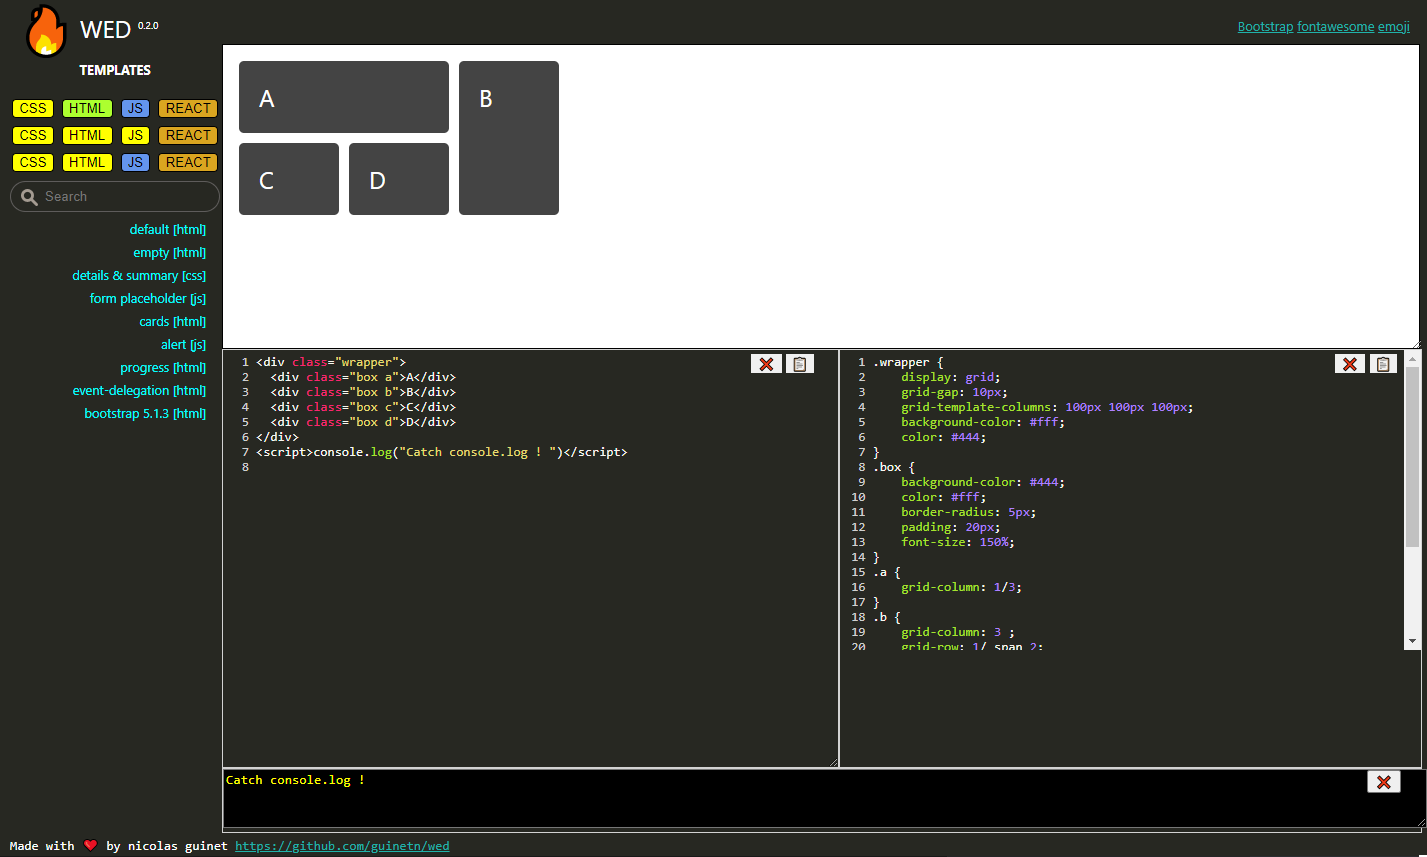
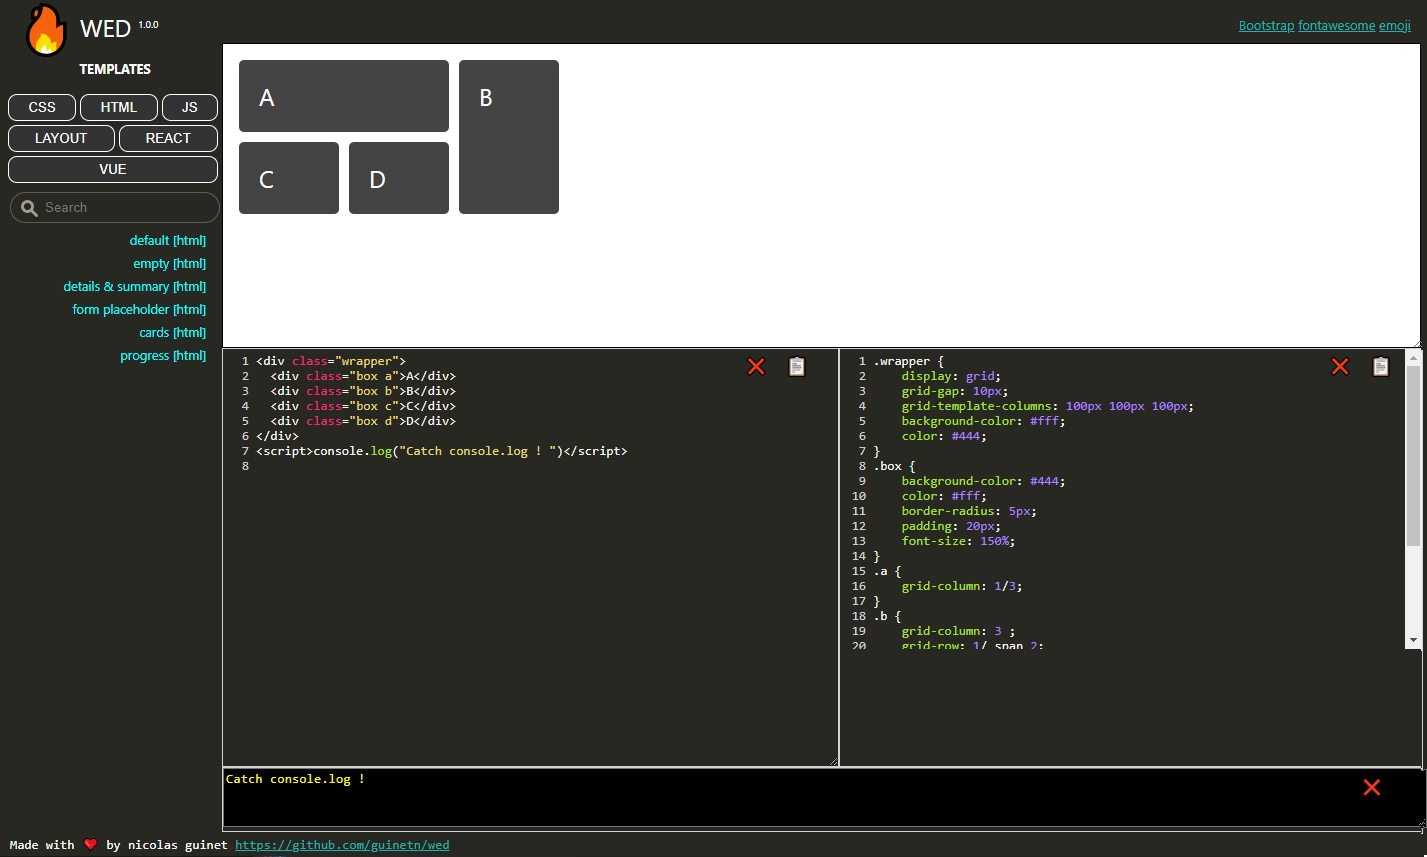
UI update: make categories buttons round + update app screenshoot for readme.md

Changed region(s): [[0.0, 0.0, 1.0, 1.0], [0.5858, 0.5461, 0.74, 0.7585], [0.4008, 0.5158, 0.4317, 0.5461]]

diff --git a/index.css b/index.css
@@ -201,7 +201,7 @@ div[data-lang] {
 
 /* BUTTONS */
 button.template {
- background: #333;
+    background: #333;
     display: inline-block;
     padding:0.35em 1.2em;
     border:0.1em solid #FFFFFF;
@@ -213,6 +213,8 @@ button.template {
     color:#FFFFFF;
     text-align:center;
     transition: all 0.2s;
+    border-radius: 9px;
+    text-transform: uppercase;
 }
 
 .editor-btn {
